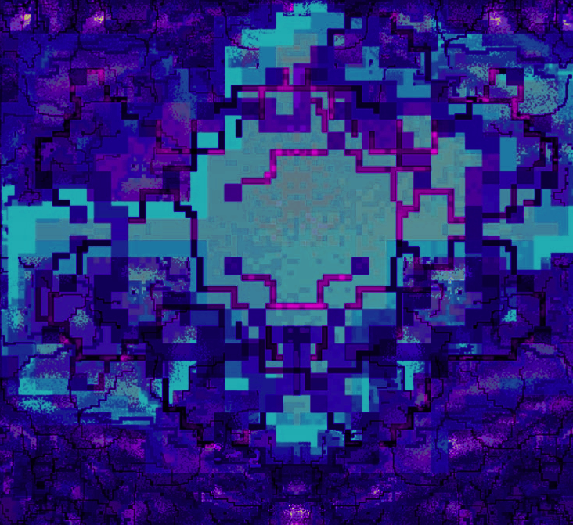
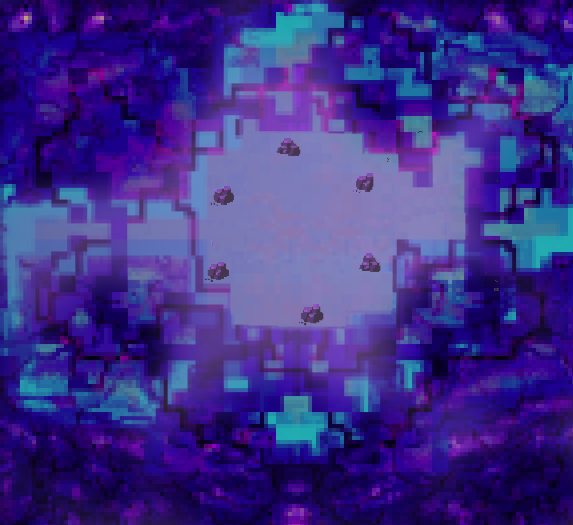
Adjust stage and background layout for Co. Cork.

diff --git a/src/components/baile/baile.jsx b/src/components/baile/baile.jsx
@@ -5,6 +5,8 @@ import { BtnB } from './../ui/btn-b';
 import { BtnSelect } from '../ui/btn-select'
 import { BtnStart } from '../ui/btn-start'
 import promptVid from '../../vid/j1.mp4'
+import ciaroga from '../../img/logo.png'
+
 import { BtnL } from './../ui/btn-l';
 import { BtnR } from './../ui/btn-r';
 import { BtnU } from './../ui/btn-u';
@@ -90,7 +92,7 @@ resize() {
                     $('.countyMap').css('left', val.left)
                     $('.countyMap').css('top', val.top)
                     $('.countyMap').css('background-image', val.countyBG)
-                    $('.countyMap').css('animation', 'zoom-to-' + imreoir.whereAmI + ' 0s forwards ease-in');
+                    $('.countyMap').css('animation', 'zoom-to-' + imreoir.whereAmI + ' 10s forwards ease-in');
                     $('.countyMap').fadeIn();
                     $('.countyMap').css('background-image', town0)
 
@@ -3813,7 +3815,9 @@ returnToCounty();
                 
                 
                 <video autoPlay muted loop id="prompt-vid"><source src={promptVid} type="video/mp4" alt=" remember the dream speed of falling and fly along the memory of wind" /></video>
-                <h2 className="mobile-mode">I gcomhair cuirteoirí ar ríomhaire baile, brú <span id="f12">f12</span> nó clé-clic agus roghnaigh <span id="inspect">inspect</span>, le do thoil. Ansin roghnaigh </h2><img alt="toggle mobile icon" src={mobile}></img> <p>chun aithris a dhéanamh ar gléas soghluaiste   |   to simulate mobile device</p></><br /> </div> : null
+                <h2 className="mobile-mode">I gcomhair cuirteoirí ar ríomhaire baile, brú <span id="f12">f12</span> nó clé-clic agus roghnaigh <span id="inspect">inspect</span>, le do thoil. Ansin roghnaigh </h2><img alt="toggle mobile icon" src={mobile}></img> <p>chun aithris a dhéanamh ar gléas soghluaiste   |   to simulate mobile device</p></><br />
+                <img id="ciaroga" src={ciaroga}/>
+                 </div> : null
 						}
                 <div className="select-options">
 

diff --git a/src/components/champions/champions.jsx b/src/components/champions/champions.jsx
@@ -17,7 +17,7 @@ export class Champions extends React.Component {
 			<>	{this.props.engMode ?
 					<>
 						{this.props.tallyB === 0 ? <h1>Rogue</h1> : null}
-						{this.props.tallyB === 1 ? <h1>Troll</h1> : null}
+						{this.props.tallyB === 1 ? <h1>Sage</h1> : null}
 						{this.props.tallyB === 2 ? <h1>Poet</h1> : null}
 						{this.props.tallyB === 3 ? <h1>Druid</h1> : null}
 						{this.props.tallyB === 4 ? <h1>Gallowglass</h1> : null}
@@ -27,7 +27,7 @@ export class Champions extends React.Component {
 					</> :
 					<>
 						{this.props.tallyB === 0 ? <h1>Rógaire</h1> : null}
-						{this.props.tallyB === 1 ? <h1>Bodach</h1> : null}
+						{this.props.tallyB === 1 ? <h1>Saoi</h1> : null}
 						{this.props.tallyB === 2 ? <h1>File</h1> : null}
 						{this.props.tallyB === 3 ? <h1>Draoi</h1> : null}
 						{this.props.tallyB === 4 ? <h1>Gallóglaċ</h1> : null}

diff --git a/src/components/main-view/main-view.css b/src/components/main-view/main-view.css
@@ -127,7 +127,7 @@ h2 {
 
   position: relative;
   z-index: 909;
-  margin-top:10%;
+  margin-top:0%;
   /* border: 3px solid black; */
   background-color: rgba(0, 0, 0, 0.7);
   height: 30%;
@@ -149,7 +149,7 @@ h2 {
 
 #ciaroga {
   position: fixed;
-  top: 10%;
+  top: 5%;
   width: 50%;
   z-index: 6000;
   left: 25%;

diff --git a/src/components/champions/champions.css b/src/components/champions/champions.css
@@ -45,6 +45,7 @@ z-index:90000;}
   background-image: url('../../img/characters/poet.gif');
 }
 
+
 .druid {
   background-image: url('../../img/characters/druid.gif');
 }

diff --git a/src/components/baile/baile.css b/src/components/baile/baile.css
@@ -279,8 +279,8 @@ p {
 
   100% {
     transform: scale(1.0);
-    margin-left: -6%;
-    margin-top: -12%;
+    margin-left: -18%;
+    margin-top: -17%;
   }
 
 }
